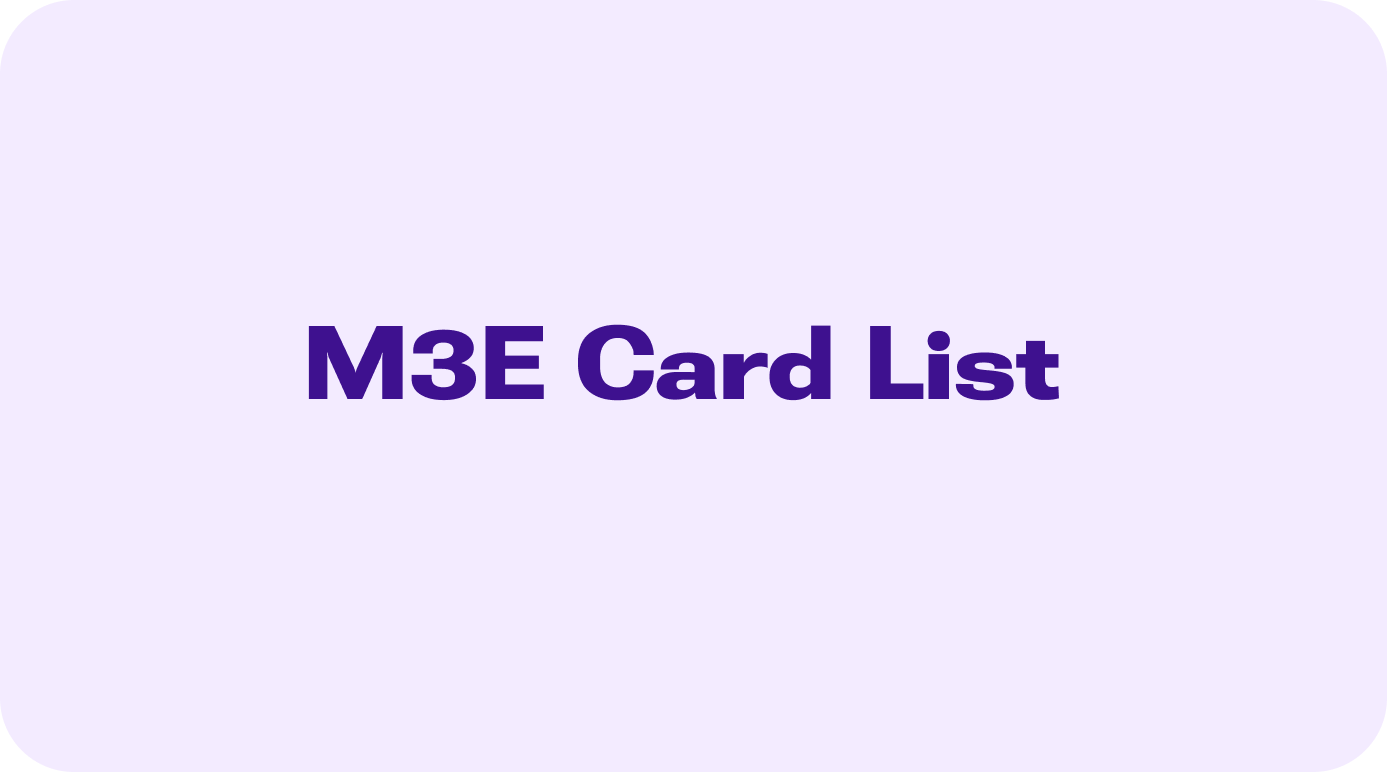
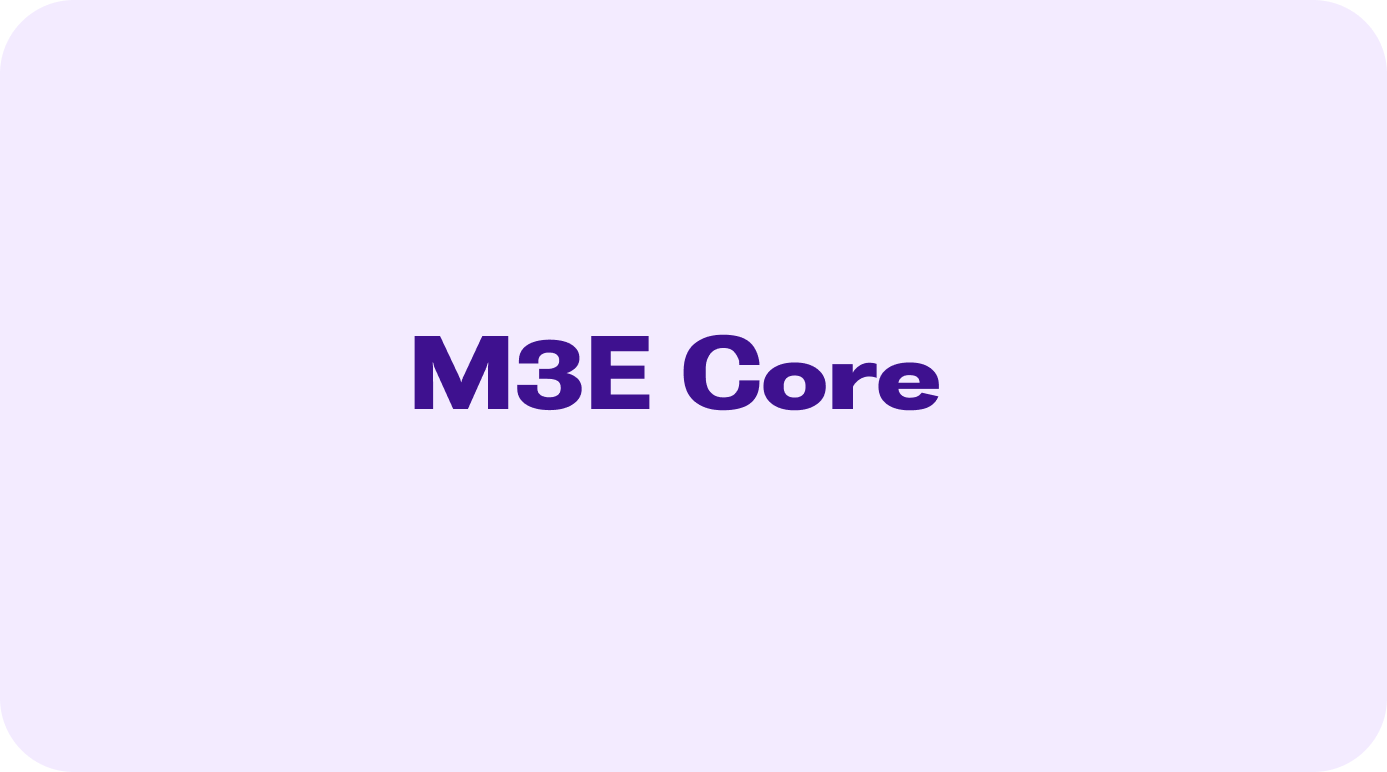
chore: Rebrand to m3e_core

Changed region(s): [[0.217, 0.4041, 0.7751, 0.5285]]

diff --git a/lib/src/dismissible/m3e_dismissible_card_style.dart b/lib/src/dismissible/m3e_dismissible_card_style.dart
@@ -53,11 +53,11 @@ class M3EDismissibleCardStyle {
   final double? secondaryBackgroundBorderRadius;
 
   /// Background And Secondary Background Collapse speed
-  /// [The speed becomes faster when the user swipes faster]
-  /// 
+  /// The speed becomes faster when the user swipes faster
+  ///
   /// Higher Number = Faster Collapse
   /// Lower Number = Slower Collapse
-  /// 
+  ///
   /// Defaults to `50` for that slower Gmail type collapse
   final double collapseSpeed;
 
@@ -82,10 +82,10 @@ class M3EDismissibleCardStyle {
   final int hapticOnThreshold;
 
   /// Fire continuous light haptics during the drag.
-  /// 
+  ///
   /// Defaults to `false`.
-  /// 
-  /// Try it out once!! 
+  ///
+  /// Try it out once!!
   /// It's just me or it's super satisfying to use?
   final bool dismissHapticStream;
 
@@ -185,8 +185,11 @@ class M3EDismissibleCardStyle {
       neighbourReach: neighbourReach ?? this.neighbourReach,
       neighbourStiffness: neighbourStiffness ?? this.neighbourStiffness,
       neighbourDamping: neighbourDamping ?? this.neighbourDamping,
-      backgroundBorderRadius: backgroundBorderRadius ?? this.backgroundBorderRadius,
-      secondaryBackgroundBorderRadius: secondaryBackgroundBorderRadius ?? this.secondaryBackgroundBorderRadius,
+      backgroundBorderRadius:
+          backgroundBorderRadius ?? this.backgroundBorderRadius,
+      secondaryBackgroundBorderRadius:
+          secondaryBackgroundBorderRadius ??
+          this.secondaryBackgroundBorderRadius,
       collapseSpeed: collapseSpeed ?? this.collapseSpeed,
     );
   }

diff --git a/lib/src/dropdown/m3e_dropdown_controller.dart b/lib/src/dropdown/m3e_dropdown_controller.dart
@@ -8,7 +8,7 @@ import 'm3e_dropdown_item.dart';
 /// set items dynamically, and listen for changes.
 ///
 /// Items are managed as **immutable** [M3EDropdownItem] instances. All
-/// mutations go through [copyWith], which ensures the controller properly
+/// mutations go through [M3EDropdownItem.copyWith], which ensures the controller properly
 /// detects changes and notifies listeners.
 ///
 /// Search filtering is handled internally — [items] returns either the
@@ -24,6 +24,9 @@ import 'm3e_dropdown_item.dart';
 /// controller.clearAll();
 /// ```
 class M3EDropdownController<T> extends ChangeNotifier {
+  /// Creates a new [M3EDropdownController].
+  M3EDropdownController();
+
   // ── Internal state ──
 
   bool _initialized = false;

diff --git a/lib/src/dropdown/m3e_dropdown_style.dart b/lib/src/dropdown/m3e_dropdown_style.dart
@@ -68,7 +68,7 @@ class M3EDropdownFieldDecoration {
 
   /// Border radius of the field.
   ///
-  /// When null the widget's [outerRadius] is used as a circular radius.
+  /// When null the widget's `outerRadius` inside [M3EDropdownItemDecoration] is used as a circular radius.
   final BorderRadius? borderRadius;
 
   /// Whether to show a clear-all icon when items are selected.
@@ -345,7 +345,7 @@ class M3EDropdownItemDecoration {
 
   /// Gap between items.
   ///
-  /// When set, overrides the widget-level [M3EDropdownMenu.itemGap].
+  /// When set, specifies the gap between items list.
   final double? itemGap;
 
   /// Inner padding applied to each dropdown item.

diff --git a/example/lib/screens/dismissible_m3e_screen.dart b/example/lib/screens/dismissible_m3e_screen.dart
@@ -1,5 +1,5 @@
 import 'package:flutter/material.dart';
-import 'package:m3e_card_list/m3e_card_list.dart';
+import 'package:m3e_core/m3e_core.dart';
 import '../data/mock_data.dart';
 
 class DismissibleM3EScreen extends StatefulWidget {
@@ -123,7 +123,7 @@ class _DismissibleListViewTabState extends State<_DismissibleListViewTab> {
             itemCount: _items.length + (_isLoadingMore ? 1 : 0),
             onDismiss: _onDismiss,
             style: getDismissStyle(),
-            
+
             itemBuilder: (context, index) {
               if (index == _items.length) {
                 return const KeyedSubtree(

diff --git a/example/lib/data/mock_data.dart b/example/lib/data/mock_data.dart
@@ -1,5 +1,5 @@
 import 'package:flutter/material.dart';
-import 'package:m3e_card_list/m3e_card_list.dart';
+import 'package:m3e_core/m3e_core.dart';
 
 // ─────────────────────────────────────────────────────────────────────────────
 // Shared swipe style

diff --git a/lib/src/dropdown/m3e_dropdown_menu.dart b/lib/src/dropdown/m3e_dropdown_menu.dart
@@ -122,7 +122,7 @@ class M3EDropdownMenu<T> extends StatefulWidget {
 
   /// An optional widget placed between dropdown items.
   ///
-  /// When non-null, overrides [itemGap] and is used as the separator in
+  /// When non-null, overrides `itemGap` inside [M3EDropdownItemDecoration.itemGap] and is used as the separator in
   /// the dropdown item list.
   final Widget? itemSeparator;
 

diff --git a/lib/src/dismissible/sliver_m3e_dismissible_card_list.dart b/lib/src/dismissible/sliver_m3e_dismissible_card_list.dart
@@ -23,7 +23,7 @@ class SliverM3EDismissibleCardList extends StatefulWidget {
   /// Number of data items.
   final int itemCount;
 
-  /// Builds content for the item at [index].
+  /// Builds content for the item at the given index.
   final IndexedWidgetBuilder itemBuilder;
 
   /// Called when a swipe exceeds the dismiss threshold.

diff --git a/lib/src/dismissible/m3e_dismissible_card_column.dart b/lib/src/dismissible/m3e_dismissible_card_column.dart
@@ -21,7 +21,7 @@ class M3EDismissibleCardColumn extends StatefulWidget {
   /// Number of data items.
   final int itemCount;
 
-  /// Builds content for the item at [index].
+  /// Builds content for the item at the given index.
   final IndexedWidgetBuilder itemBuilder;
 
   /// Called when a swipe exceeds the dismiss threshold.

diff --git a/lib/src/dismissible/m3e_dismissible_card_list.dart b/lib/src/dismissible/m3e_dismissible_card_list.dart
@@ -21,7 +21,7 @@ class M3EDismissibleCardList extends StatefulWidget {
   /// Number of data items.
   final int itemCount;
 
-  /// Builds content for the item at [index].
+  /// Builds content for the item at the given index.
   final IndexedWidgetBuilder itemBuilder;
 
   /// Called when a swipe exceeds the dismiss threshold.

diff --git a/example/lib/screens/expandable_m3e_screen.dart b/example/lib/screens/expandable_m3e_screen.dart
@@ -1,5 +1,5 @@
 import 'package:flutter/material.dart';
-import 'package:m3e_card_list/m3e_card_list.dart';
+import 'package:m3e_core/m3e_core.dart';
 import '../data/mock_data.dart';
 
 class ExpandableM3EScreen extends StatelessWidget {

diff --git a/example/lib/screens/dropdown_m3e_screen.dart b/example/lib/screens/dropdown_m3e_screen.dart
@@ -1,5 +1,5 @@
 import 'package:flutter/material.dart';
-import 'package:m3e_card_list/m3e_card_list.dart';
+import 'package:m3e_core/m3e_core.dart';
 import '../data/mock_data.dart';
 
 class DropdownM3EScreen extends StatefulWidget {

diff --git a/example/lib/screens/m3e_card_screen.dart b/example/lib/screens/m3e_card_screen.dart
@@ -1,5 +1,5 @@
 import 'package:flutter/material.dart';
-import 'package:m3e_card_list/m3e_card_list.dart';
+import 'package:m3e_core/m3e_core.dart';
 import '../data/mock_data.dart';
 
 class M3ECardScreen extends StatelessWidget {
